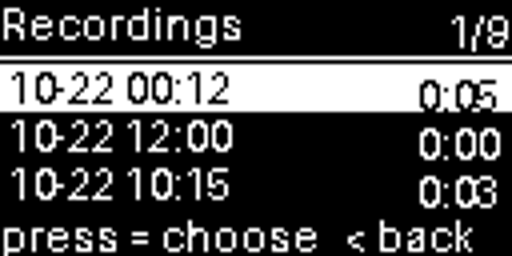
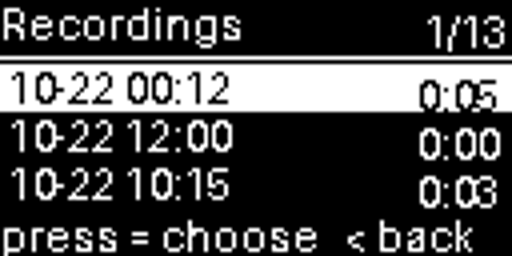
Recording and the meters: what plays on the speaker, no FM-1 needed
They listened to FM-1 A's input and stopped with "FM-1 not found" without one, even
with the pads, the decks or a USB keyboard playing. Now they take the speaker's mix
(the source itself only when there's nothing to play on).

Changed region(s): [[0.8125, 0.0625, 1.0, 0.2188]]

diff --git a/fm1-bt-bridge/meters.py b/fm1-bt-bridge/meters.py
@@ -613,8 +613,8 @@ class MeterScreens:
         if self.recorder.recording():
             self.finish_recording("Saved: {} recorded")
             return
-        if not self.source:
-            self.say("FM-1 not found")
+        if not self.capture_target():
+            self.say("Nothing to record")
             return
         folder = library.folder("recordings")
         if shutil.disk_usage(folder).free < MIN_FREE:
@@ -685,7 +685,7 @@ class MeterScreens:
                 return (self.meter_index(), clock and clock.get("bpm"), step), rec
             return (self.meter_index(), tuple(getattr(midi, "notes", ()) or ()),
                     getattr(midi, "chans", 0)), rec
-        want = (self.screen == "meter" and self.mode != "saver" and self.source and numpy()
+        want = (self.screen == "meter" and self.mode != "saver" and numpy()
                 and self.capture_target())
         if not want:
             if self.levels.proc:
@@ -710,7 +710,7 @@ class MeterScreens:
         if style == "Beat":
             self.draw_beat(d, now)
             return img
-        problem = ("FM-1 not found" if not self.source else None if numpy() else
+        problem = ("Nothing to listen to" if not self.capture_target() else None if numpy() else
                    "Needs python3-numpy" if _np_state == "missing" else "Loading meters...")
         if problem:
             d.text(((128 - d.textlength(problem, font=self.f_body)) / 2, 30), problem, font=self.f_body, fill=1)

diff --git a/tests/test_desk.py b/tests/test_desk.py
@@ -490,9 +490,11 @@ def test_decks_in_the_mixer():
     assert app.state["decks_out"] == "hercules" and sent[-1] == ("output", "hercules")
     app.screen = "status"
     app.sink, app.source = {"id": 2, "name": "bluez_output.jbl", "label": "JBL"}, {"id": 1, "name": "fm1-in"}
-    assert app.capture_target() == "fm1-in"                         # the FM-1 alone: its input
+    assert app.capture_target() == "monitor:bluez_output.jbl"       # one source: what the speaker plays
     app.app_here = {"decks"}
-    assert app.capture_target() == "monitor:bluez_output.jbl"       # the decks playing too: the speaker
+    assert app.capture_target() == "monitor:bluez_output.jbl"       # the decks playing too: the same
+    app.sink = app.jack = app.card = None
+    assert app.capture_target() == "fm1-in"                         # nothing to play on: the source itself
 
 
 def test_hdmi_mirror():
@@ -1036,6 +1038,9 @@ def test_every_meter_draws():
 
     class App:
         source, midi, tape_done, last_activity = {"name": "x"}, Clock(), 0.4, 0.0
+
+        def capture_target(self):
+            return "monitor:x"
         recorder = type("R", (), {"recording": lambda self: True})()
 
         def __init__(self, i, x):

diff --git a/fm1-bt-bridge/bridge.py b/fm1-bt-bridge/bridge.py
@@ -1139,14 +1139,15 @@ class App(LibraryScreens, MeterScreens, MidiScreens, SampleEditor, WebLink):
         return self.loop.running() or self.mixer.running()
 
     def capture_target(self):
-        """what recordings and the meters listen to: the FM-1, or while mixing (or a Studio app or the DJ decks
-        play: they go to the speaker themselves), what plays on the speaker"""
+        """what recordings and the meters listen to: what plays on the speaker (the sources, the pads, the DJ
+        decks, whatever plays there), or, with nothing to play on, the one source straight; None: neither"""
         if self.mixer.running() and self.mixer.sink:
             return "monitor:" + self.mixer.sink
         main = self.outputs()[0]
-        if self.app_here and main:
+        if main:
             return "monitor:" + main
-        return self.source and self.source["name"]
+        channels = self.mix_channels()
+        return channels[0][1]["name"] if channels else None
 
     def heal_pipewire(self, source):
         """WirePlumber can lose the FM-1 when it reconnects quickly under another identity (as after a

diff --git a/fm1-bt-bridge/deskmeters.py b/fm1-bt-bridge/deskmeters.py
@@ -52,7 +52,7 @@ class DeskMeters:
             return self.draw_midi(app, img, d, box, t, now)
         if style == "Beat":
             return self.draw_beat(app, img, d, box, t, now)
-        problem = ("FM-1 NOT FOUND" if not app.source else None if m.numpy() else
+        problem = ("NOTHING TO LISTEN TO" if not app.capture_target() else None if m.numpy() else
                    "NEEDS PYTHON3-NUMPY" if m._np_state == "missing" else "LOADING METERS...")
         if problem:
             self.centre(img, box, problem, t.c[3], 1)
